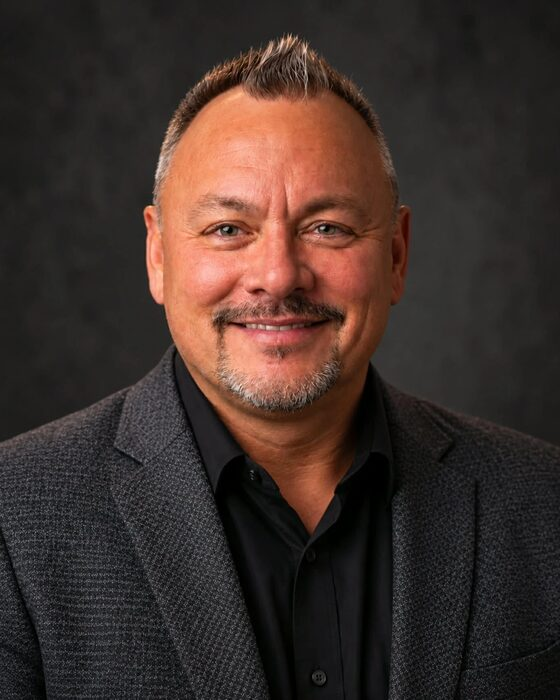
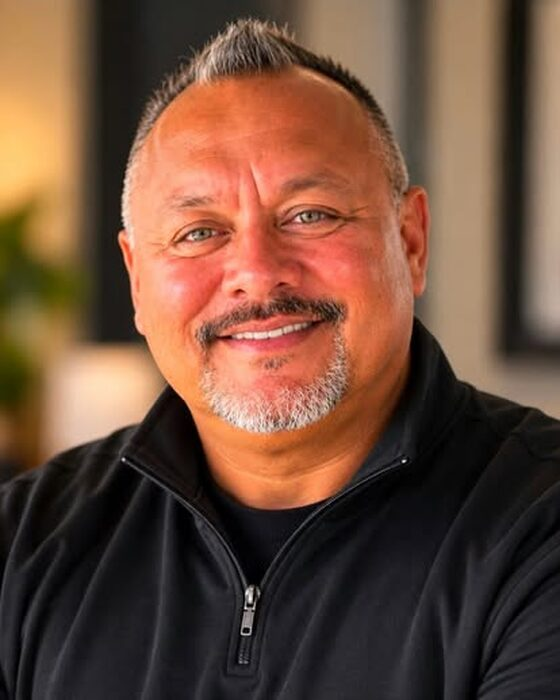
New headshot (black quarter-zip); version headshot URLs
- Replace profile photo and regenerate link-preview card
- Update alt text for the new outfit
- Add ?v=20261008 to the headshot preload/srcset/src so Hostinger's CDN
  can't keep serving the previous photo under the same filename

Claude-Session: https://claude.ai/code/session_01LULKfrfoqBWvdotWMRfoLK

diff --git a/index.html b/index.html
@@ -31,7 +31,7 @@
   <link rel="preconnect" href="https://fonts.gstatic.com" crossorigin>
   <link rel="stylesheet" href="https://fonts.googleapis.com/css2?family=Cormorant+Garamond:wght@600;700&display=swap">
 
-  <link rel="preload" as="image" href="assets/nate.webp" type="image/webp">
+  <link rel="preload" as="image" href="assets/nate.webp?v=20261008" type="image/webp">
   <link rel="stylesheet" href="css/styles.css?v=20261008">
 
   <!-- Structured data for search engines -->
@@ -130,8 +130,8 @@
       <div class="container hero-inner">
         <div class="agent-photo">
           <picture>
-            <source srcset="assets/nate.webp" type="image/webp">
-            <img src="assets/nate.jpg" alt="Nate Hall, smiling, in a charcoal blazer and black shirt" width="560" height="700" fetchpriority="high">
+            <source srcset="assets/nate.webp?v=20261008" type="image/webp">
+            <img src="assets/nate.jpg?v=20261008" alt="Nate Hall, smiling, in a black quarter-zip pullover" width="560" height="700" fetchpriority="high">
           </picture>
         </div>
         <div class="agent-info">

diff --git a/CLAUDE.md b/CLAUDE.md
@@ -78,7 +78,7 @@ Form checkbox values (must match `$allowed` in `contact.php`): `Life insurance`,
 ## Images
 - `assets/nate.jpg` + `assets/nate.webp`: 560×700 (4:5). When Nate sends a new photo, crop to 4:5 keeping
   head and shoulders (trim evenly from the long side), resize to 560×700, strip metadata, JPEG q≈82
-  progressive and WebP q≈78. Update the `alt` text if the clothing changes (currently "charcoal blazer and black shirt").
+  progressive and WebP q≈78. Update the `alt` text if the clothing changes (currently "black quarter-zip pullover"). The headshot `src`/`srcset`/preload use `?v=YYYYMMDD` too — bump it when the photo changes.
 - `assets/og-image.jpg`: 1200×630 link-preview card — headshot in a silver frame on the left; on the right
   "NATE HALL INSURANCE", "Nate Hall", "Your local insurance agent", "Independent Insurance Agent",
   "Hartford, South Dakota", "Licensed in SD · ND · IA · NE · MN", and the six products. No contact info.
